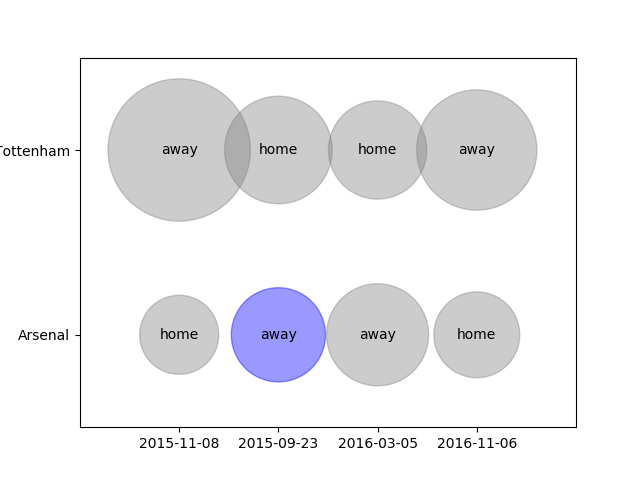
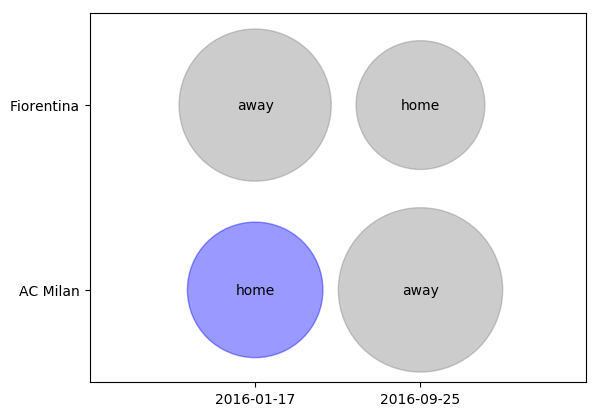
finally got plot displaying on nickdev

diff --git a/eb-btb-flask/templates/home.html b/eb-btb-flask/templates/home.html
@@ -20,17 +20,6 @@
       </div>
     </form>
 
-    <div class="container-graph">
-      {% if league %}
-        <h2>League: {{ league }}</h2>
-        <h3>Team 1: {{ team1 }}</h3>
-        <h3>Team 2: {{ team2 }}</h3>
-        {% for row in teams_record %}
-          <h4><b>Date:</b> {{ row[0] }} <b>Home:</b> {{ row[1] }} <b>Away:</b> {{ row[2] }} <b>Winner:</b> {{ row[3] }}</h4>
-        {% endfor %}
-      {% endif %}
-    </div>
-
     <script>
       let user_league = document.getElementById('league');
       let user_team1 = document.getElementById('team1');
@@ -52,4 +41,6 @@
         });
       }
     </script>
+    <p>
+    	
 {% endblock content %}

diff --git a/eb-btb-flask/templates/nickdev.html b/eb-btb-flask/templates/nickdev.html
@@ -1,10 +1,13 @@
 {% extends "layout.html" %}
 {% block content %}
-  <!-- <h2>EU Football league betting data!<h2>
+  <h2>EU Football league betting data!<h2>
     <div class="plot">
-      <h1>Teams vs. Each Other</h1>
-	<p>{{ "new_plot" }}</p>
-	<img src= "/Users/nickvarberg/Desktop/School/Eulers-Men-Sports-Betting/eb-btb-flask/static/new_plot.png", alt="my plot", height
-	  = "42", width = "42">
+			<img src= {{ url}} alt="my plot">
+    </div>
+    
+    <!--
+    <div>
+			<img src= "/team_records" alt="my plot">
     </div> -->
+    
 {% endblock content %}

diff --git a/eb-btb-flask/application.py b/eb-btb-flask/application.py
@@ -99,13 +99,13 @@ def home():
     myForm.team2.choices = [(team[0], team[0]) for team in myDB.get_teams()]
 
     # After you presss submit,  Handle form POST, update page
+    # league team1 and team 2 coming from the form POST
+    # then passes to class='container graph" section in home html
     if request.method == 'POST':
         teams_record = myDB.get_teams_record(myForm.team1.data, myForm.team2.data)
-        # league team1 and team 2 coming from the form POST
-        # then passes to class='container graph" section in home html
-        create_team_records_fig(team_records = teams_record, team1=myForm.team1.data, team2=myForm.team2.data)
-        print('3 got past call of create_team_records_fig')
-        return render_template('home.html', form=myForm, league=myForm.league.data, team1=myForm.team1.data, team2=myForm.team2.data, teams_record=teams_record)
+        create_team_records_fig(team_records = teams_record, team1 = myForm.team1.data, team2 = myForm.team2.data)
+        return render_template('home.html', form=myForm, league=myForm.league.data, team1=myForm.team1.data, team2=myForm.team2.data,
+                               teams_record=teams_record)
 
     return render_template('home.html', form=myForm)
 
@@ -137,8 +137,7 @@ def about():
 # Nick create this
 @app.route("/nickdev")
 def nickdev():
-    print('4 got to nick dev')
-    return render_template('nickdev.html')
+    return render_template('nickdev.html', url = '/static/new_plot.png')
 
 
 ## @app.route('/plot.png')
@@ -182,24 +181,33 @@ def create_team_records_fig(team_records, team1, team2):
         elif winner == team2:
             colors[i+n_games] = 'red'
         i = i+1
+        print(i)
 
-    #fig = plt.figure()
-    plt.scatter(x, y, s=sizes * 1000 * (6 - n_games), c=colors, alpha=0.4)
-    plt.xlim([0, n_games + 1])
-    plt.ylim([0, y_height + 1])
-    plt.xticks(x[0:n_games],df['match_date'])
-    plt.yticks([1, y_height],[team1, team2])
+    fig = plt.figure()
+    ax1 = fig.add_subplot(1,1,1)
+    ax1.scatter(x, y, s=sizes * 1000 * (6 - n_games), c=colors, alpha=0.4)
+    ax1.set_xlim([0, n_games + 1])
+    ax1.set_ylim([0, y_height + 1])
+    ax1.set_xticks(x[0:n_games])
+    ax1.set_xticklabels(df['match_date'])
+    ax1.set_yticks([1, y_height])
+    ax1.set_yticklabels([team1, team2])
     i = 0
     while i < n_games * 2:
-        plt.text(x[i], y[i], bubble_text[i],
+        ax1.text(x[i], y[i], bubble_text[i],
                      horizontalalignment='center',
                      verticalalignment='center')
         i = i + 1
-    print('2 got to end of create_team_records_fig')
     import os
-    my_path = os.path.abspath(__file__)
-    plt.savefig(my_path + '/static/new_plot.png', bbox_inches='tight')
-    return 
+    my_path = os.getcwd()
+    url = '/static/new_plot.png'
+    print("3 url: " + url)
+    fig.savefig((my_path+url), bbox_inches='tight')
+    plt.close()
+    print('4 saved .png and closed plt')
+    name = str(team1) + " vs. "+ str(team2)
+    print((my_path + url))
+    print('2 got to end of create_team_records_fig')
 
 
 
